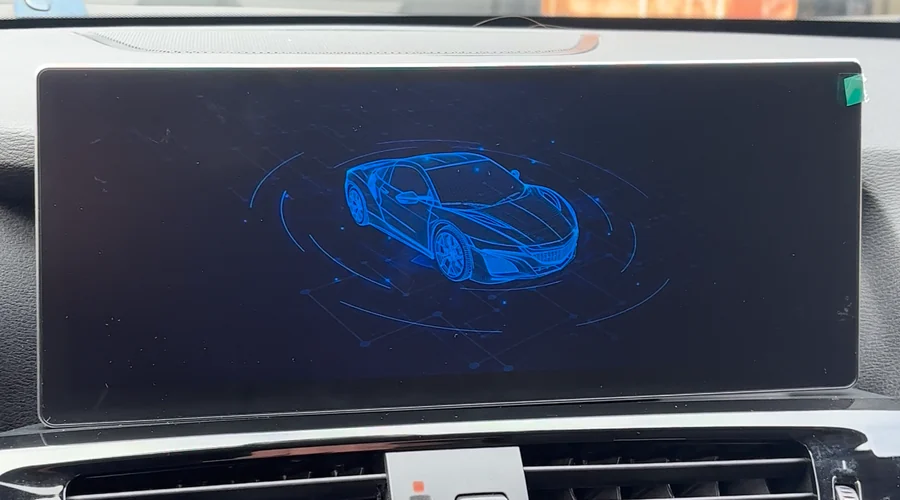
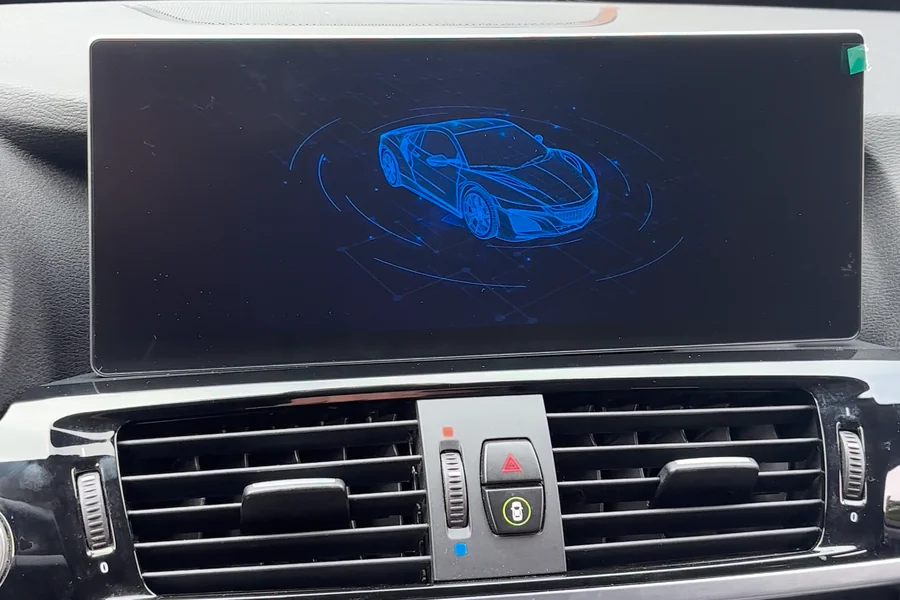
Show the BMW dash around the new display on the option card
Option-card photos switch from a thin strip to 3:2 so the X3 vents and
hazard switch show under the replacement screen.

Claude-Session: https://claude.ai/code/session_01YA1ZGsTeUYZYBCBbqpuyre

diff --git a/index.html b/index.html
@@ -1,5 +1,5 @@
 <!doctype html>
-<html lang="en"><head><meta charset="utf-8"><meta name="viewport" content="width=device-width,initial-scale=1,viewport-fit=cover"><title>CarPlay Installation in the DC Metro | Dash Rev</title><meta name="description" content="Mobile Apple CarPlay and Android Auto installation across the DC metro area. Adapter installations from $350. Screen replacements from $450."><meta name="theme-color" content="#0E1013"><link rel="canonical" href="https://dashrev.github.io/"><link rel="icon" href="brand/profile.svg" type="image/svg+xml"><meta property="og:title" content="CarPlay Installation in the DC Metro | Dash Rev"><meta property="og:description" content="Mobile Apple CarPlay and Android Auto installation across the DC metro area. Adapter installations from $350. Screen replacements from $450."><meta property="og:type" content="website"><meta property="og:url" content="https://dashrev.github.io/"><meta property="og:image" content="https://dashrev.github.io/assets/dashboard-original.png"><link rel="stylesheet" href="photo-design.css?v=4"><link rel="stylesheet" href="desktop-signature.css?v=1"><script src="vehicle-catalog.js?v=eu1" defer></script><script src="app.js?v=installs2" defer></script><link rel="stylesheet" href="logo-only.css?v=2"><link rel="stylesheet" href="dashrev.css?v=1"><link rel="stylesheet" href="refine.css?v=1"><link rel="stylesheet" href="install-gallery.css?v=1"><script src="install-gallery.js?v=1" defer></script><script src="brand-hero.js?v=v3" defer></script></head>
+<html lang="en"><head><meta charset="utf-8"><meta name="viewport" content="width=device-width,initial-scale=1,viewport-fit=cover"><title>CarPlay Installation in the DC Metro | Dash Rev</title><meta name="description" content="Mobile Apple CarPlay and Android Auto installation across the DC metro area. Adapter installations from $350. Screen replacements from $450."><meta name="theme-color" content="#0E1013"><link rel="canonical" href="https://dashrev.github.io/"><link rel="icon" href="brand/profile.svg" type="image/svg+xml"><meta property="og:title" content="CarPlay Installation in the DC Metro | Dash Rev"><meta property="og:description" content="Mobile Apple CarPlay and Android Auto installation across the DC metro area. Adapter installations from $350. Screen replacements from $450."><meta property="og:type" content="website"><meta property="og:url" content="https://dashrev.github.io/"><meta property="og:image" content="https://dashrev.github.io/assets/dashboard-original.png"><link rel="stylesheet" href="photo-design.css?v=5"><link rel="stylesheet" href="desktop-signature.css?v=2"><script src="vehicle-catalog.js?v=eu1" defer></script><script src="app.js?v=installs2" defer></script><link rel="stylesheet" href="logo-only.css?v=2"><link rel="stylesheet" href="dashrev.css?v=1"><link rel="stylesheet" href="refine.css?v=1"><link rel="stylesheet" href="install-gallery.css?v=1"><script src="install-gallery.js?v=1" defer></script><script src="brand-hero.js?v=v3" defer></script></head>
 <body>
 
 <a class="skip" href="#main">Skip to content</a>
@@ -55,7 +55,7 @@
 <div class="option-copy"><h3>Keep your screen.</h3><p>Add CarPlay and Android Auto to your compatible factory display.</p><div class="option-bottom"><p class="option-price">Installed from <strong>$350</strong></p><a href="#owner-check" data-form-jump class="option-link" aria-label="Check my vehicle for an existing-screen upgrade">Check fit <span aria-hidden="true">↗</span></a></div></div>
 </article>
 <article class="upgrade-option">
-<img class="replacement-photo" src="assets/bmw-replacement-display-x3-1800.webp" srcset="assets/bmw-replacement-display-x3-900.webp 900w, assets/bmw-replacement-display-x3-1800.webp 1800w" sizes="(max-width: 760px) calc(100vw - 40px), 600px" width="1800" height="1000" alt="Widescreen replacement display installed in a BMW X3 dashboard, showing its startup screen" loading="lazy">
+<img class="replacement-photo" src="assets/bmw-replacement-display-x3-1800.webp?v=2" srcset="assets/bmw-replacement-display-x3-900.webp?v=2 900w, assets/bmw-replacement-display-x3-1800.webp?v=2 1800w" sizes="(max-width: 760px) calc(100vw - 40px), 600px" width="1800" height="1200" alt="Widescreen replacement display installed in a BMW X3 dashboard, showing its startup screen" loading="lazy">
 <div class="option-copy"><h3>Choose a new display.</h3><p>A compatible replacement screen with CarPlay and Android Auto.</p><div class="option-bottom"><p class="option-price">Installed from <strong>$450</strong></p><a href="#owner-check" data-form-jump class="option-link" aria-label="Check my vehicle for a replacement display">Check fit <span aria-hidden="true">↗</span></a></div></div>
 </article>
 </div>

diff --git a/photo-design.css b/photo-design.css
@@ -73,8 +73,8 @@ p { line-height: 1.65; }
 .section-head > p { max-width: 390px; color: var(--muted); font-size: 15px; }
 .upgrade-options { display: grid; grid-template-columns: 1fr 1fr; gap: 28px; }
 .upgrade-option { min-width: 0; background: #f5f8fa; overflow: hidden; border-radius: 5px; }
-.upgrade-option > img { display: block; width: 100%; height: 260px; object-fit: cover; object-position: 50% 0; }
-.upgrade-option > img.replacement-photo { object-position: 50% 45%; }
+.upgrade-option > img { display: block; width: 100%; height: auto; aspect-ratio: 3 / 2; object-fit: cover; object-position: 50% 0; }
+.upgrade-option > img.replacement-photo { object-position: 50% 50%; }
 .option-copy { padding: 25px; }
 .option-copy > p { font-size: 15px; color: var(--muted); margin-top: 10px; max-width: 460px; }
 .option-bottom { display: flex; align-items: center; justify-content: space-between; gap: 15px; margin-top: 17px; }
@@ -249,7 +249,7 @@ details p { padding-top: 13px; font-size: 14px; color: var(--muted); }
   .section-head { display: block; margin-bottom: 23px; }
   .section-head > p { margin-top: 12px; font-size: 14px; }
   .upgrade-options { grid-template-columns: minmax(0,1fr); gap: 24px; }
-  .upgrade-option > img { height: 190px; }
+  .upgrade-option > img { height: auto; }
   .option-copy { padding: 19px; }
   .option-copy > p { font-size: 14px; line-height: 1.55; margin-top: 8px; }
   .option-bottom { gap: 10px; margin-top: 14px; }

diff --git a/desktop-signature.css b/desktop-signature.css
@@ -134,7 +134,7 @@
   .section-head > p { max-width: 380px; font-size: 16px; line-height: 1.8; }
   .upgrade-options { gap: 32px; }
   .upgrade-option { border-radius: 3px; background: white; border: 1px solid #dce3eb; }
-  .upgrade-option > img { height: 290px; }
+  .upgrade-option > img { height: auto; }
   .option-copy { padding: 29px 30px 24px; }
   .option-copy h3 { font-size: 26px; }
   .option-copy > p { font-size: 16px; line-height: 1.7; margin-top: 13px; }
